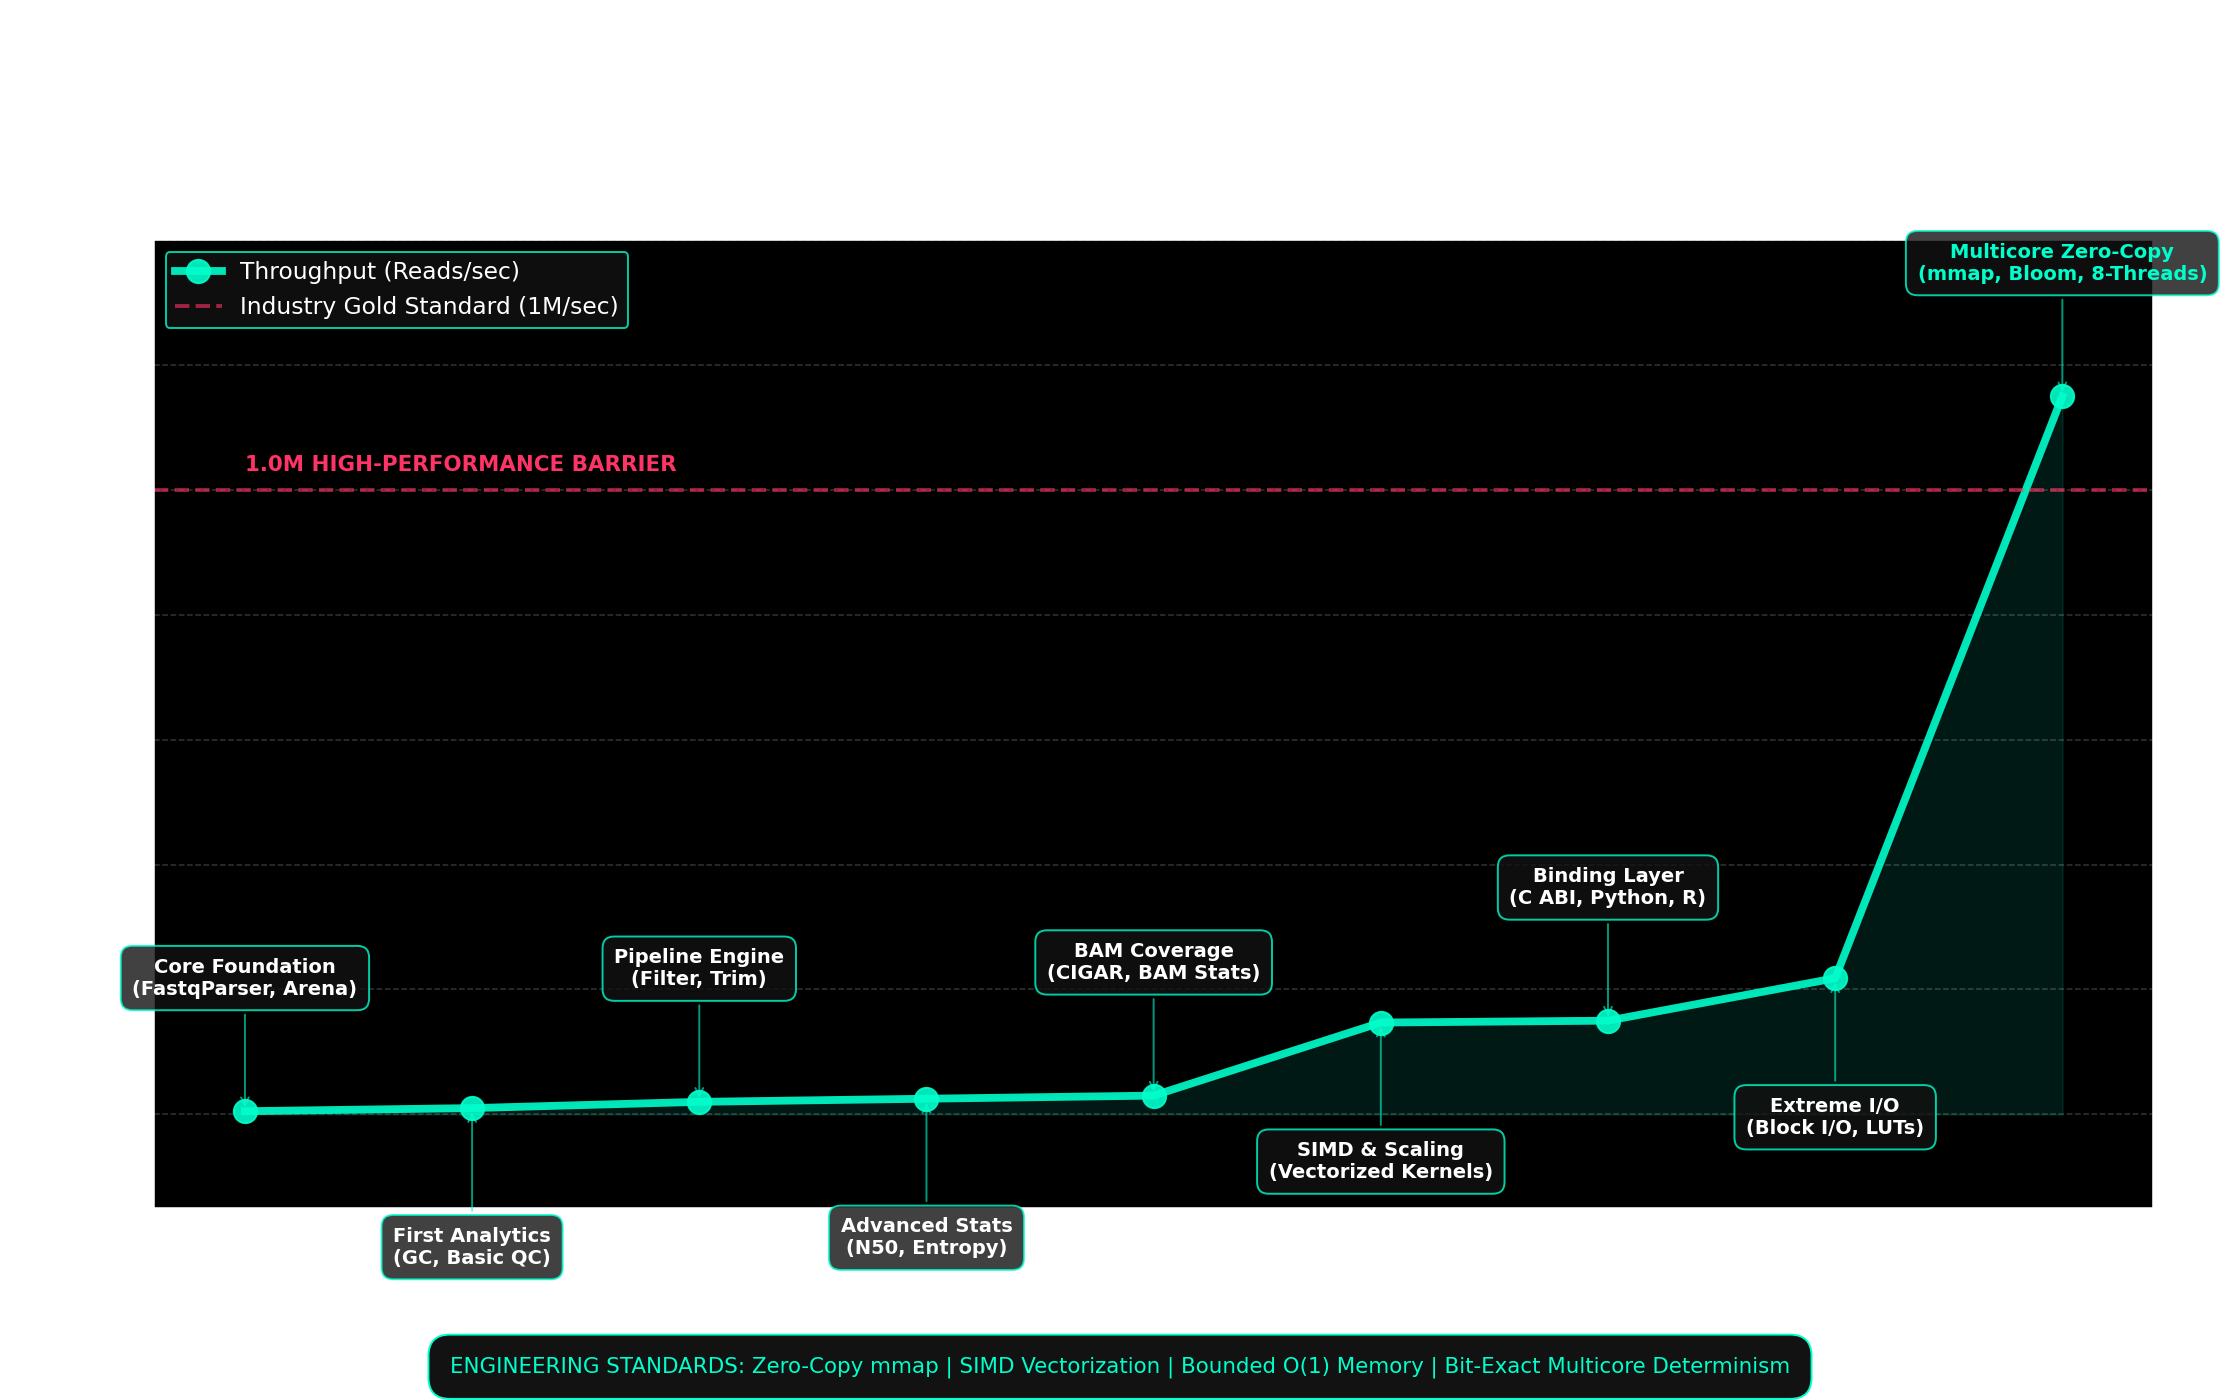
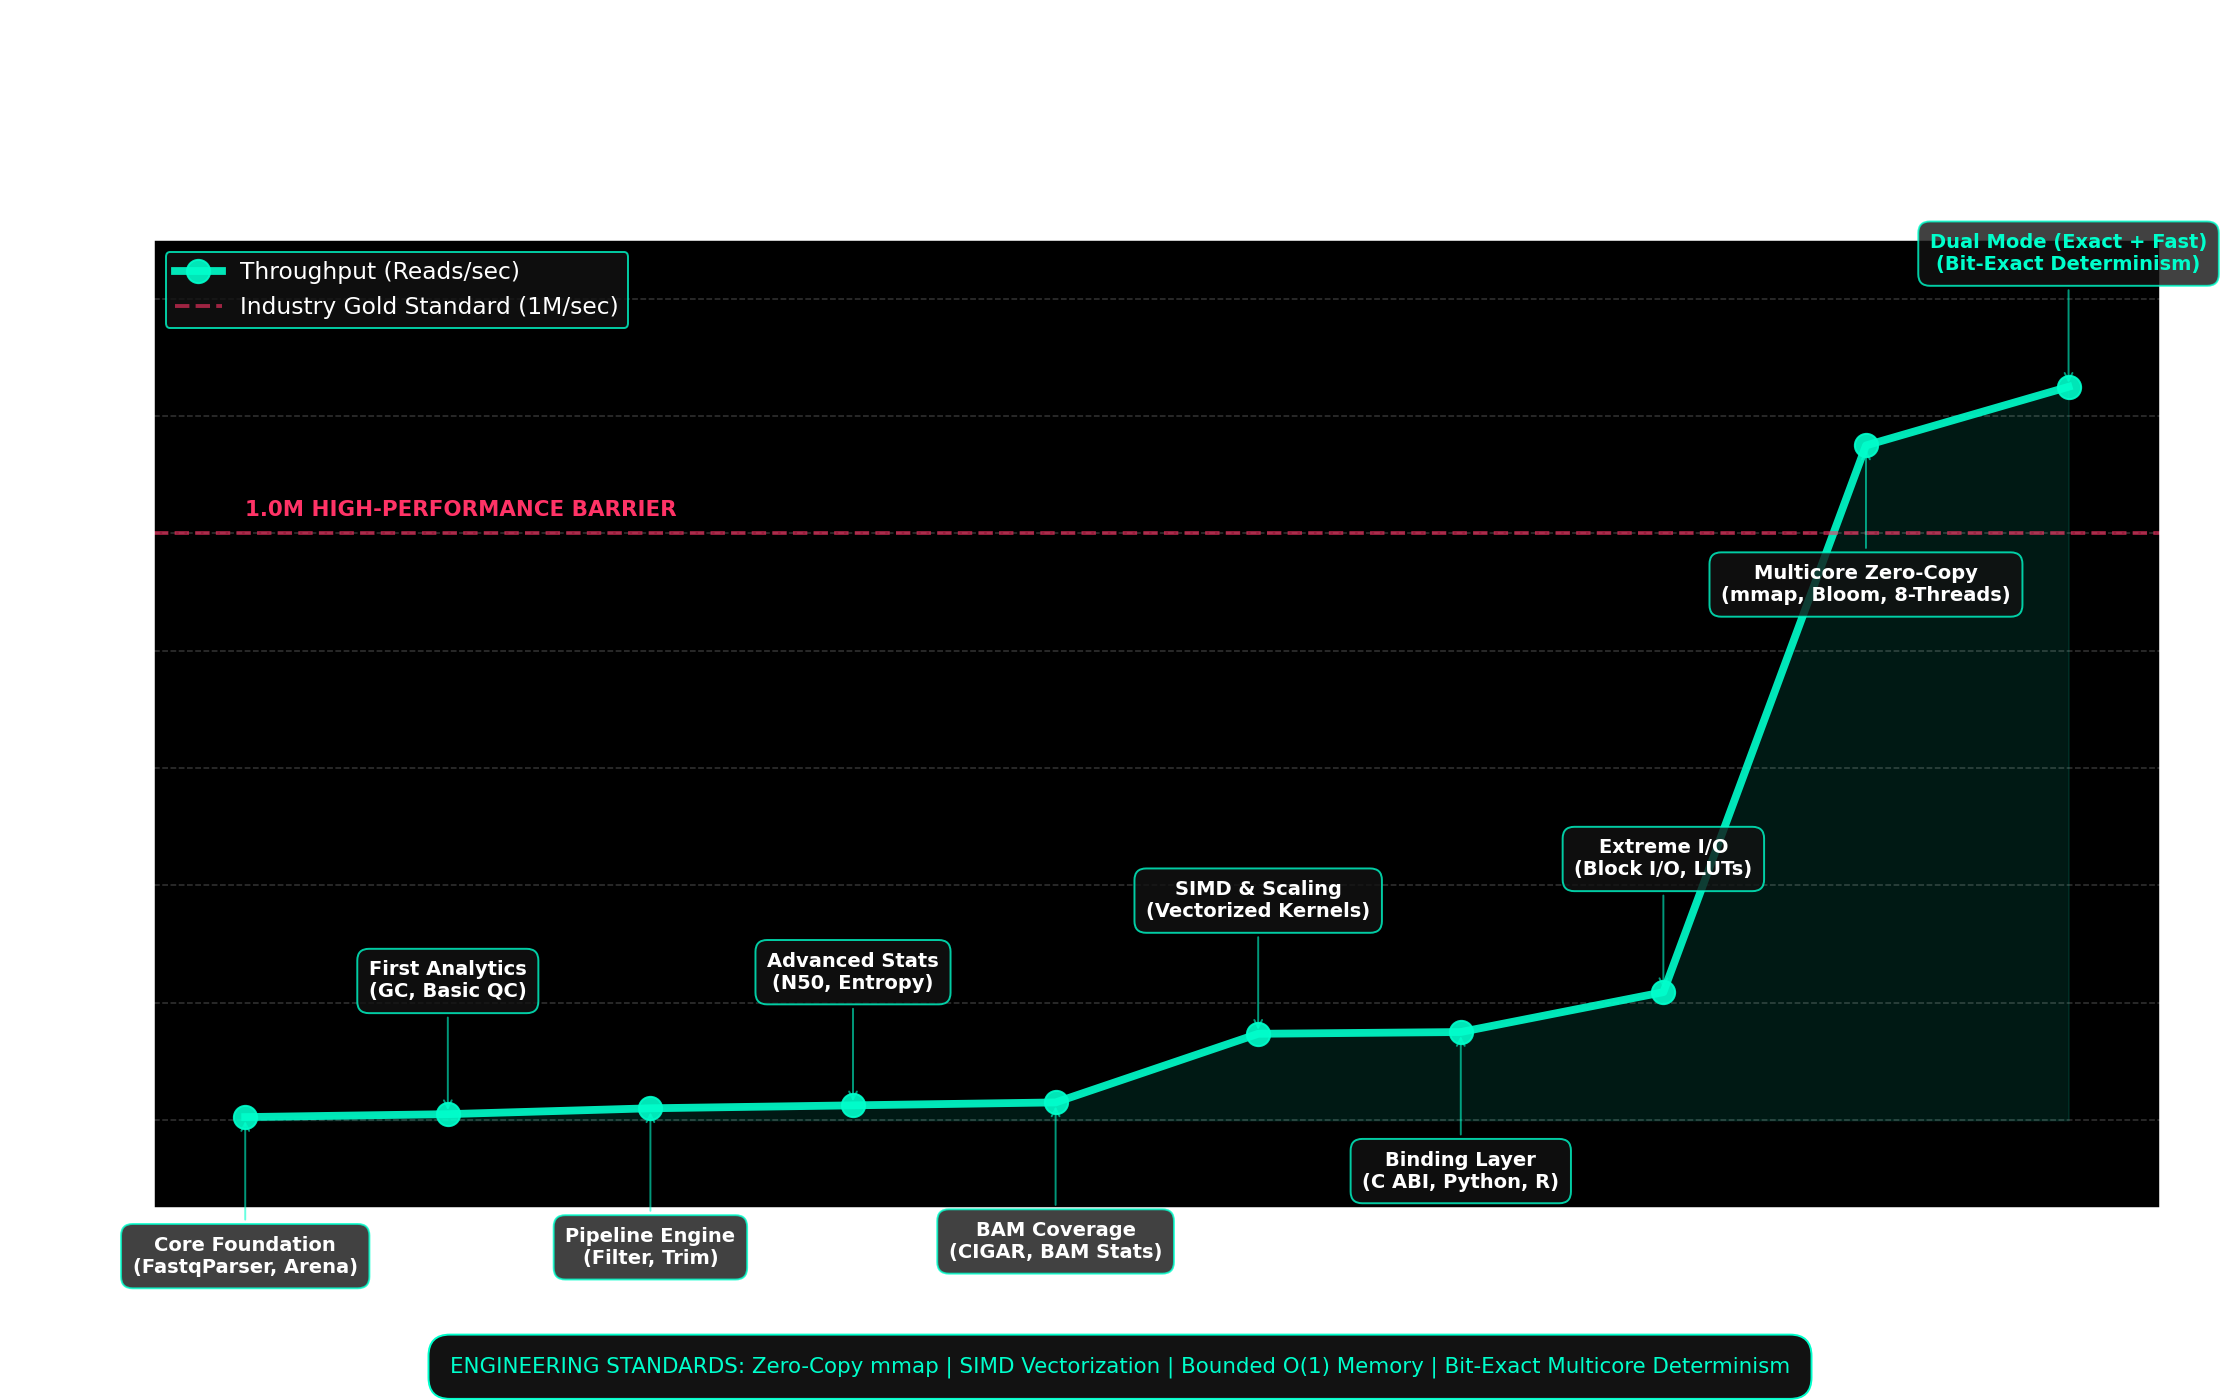
docs: update development graph and README with Phase Q.4 milestones

diff --git a/generate_development_graph.py b/generate_development_graph.py
@@ -2,8 +2,8 @@ import matplotlib.pyplot as plt
 import numpy as np
 
 # Development Phases and Data
-phases = ["Phase Z", "Phase Y", "Phase X", "Phase W", "Phase V", "Phase U", "Phase T", "Phase 6", "Phase R"]
-throughput = [5, 10, 20, 25, 30, 147, 150, 218, 1150] # Reads per second (in thousands)
+phases = ["Phase Z", "Phase Y", "Phase X", "Phase W", "Phase V", "Phase U", "Phase T", "Phase 6", "Phase R", "Phase Q.4"]
+throughput = [5, 10, 20, 25, 30, 147, 150, 218, 1150, 1250] # Reads per second (in thousands)
 
 # Milestone Details
 milestones = [
@@ -15,7 +15,8 @@ milestones = [
     "SIMD & Scaling\n(Vectorized Kernels)",
     "Binding Layer\n(C ABI, Python, R)",
     "Extreme I/O\n(Block I/O, LUTs)",
-    "Multicore Zero-Copy\n(mmap, Bloom, 8-Threads)"
+    "Multicore Zero-Copy\n(mmap, Bloom, 8-Threads)",
+    "Dual Mode (Exact + Fast)\n(Bit-Exact Determinism)"
 ]
 
 plt.figure(figsize=(16, 10), dpi=140)
@@ -29,7 +30,7 @@ plt.fill_between(x, throughput, color='#00FFCC', alpha=0.1)
 # Annotate Phases and Milestones with Alternating Heights to avoid overlap
 for i, txt in enumerate(milestones):
     # Alternate position: higher for even, lower for odd (relative to the point)
-    offset = 60 if i % 2 == 0 else -80
+    offset = 60 if i % 2 == 1 else -80 # Flipped to ensure Phase Q.4 is visible
     color = '#00FFCC' if i == len(milestones)-1 else 'white'
     
     plt.annotate(txt, (x[i], throughput[i]), 
@@ -58,7 +59,7 @@ plt.figtext(0.5, 0.02, standards_text, ha='center', fontsize=11, color='#00FFCC'
             bbox=dict(boxstyle='round,pad=1.0', fc='#121212', ec='#00FFCC', alpha=1.0))
 
 # Set y-axis limit to give room for annotations
-plt.ylim(-150, 1400)
+plt.ylim(-150, 1500)
 
 plt.tight_layout(rect=[0, 0.05, 1, 0.95])
 plt.savefig("QwD_Development_Proof.png")

diff --git a/README.md b/README.md
@@ -1,4 +1,4 @@
-# QwD
+# QwD ![QwD Logo](qwd_logo.png)
 
 ### Meaning
 QwD derives from Arabic:
